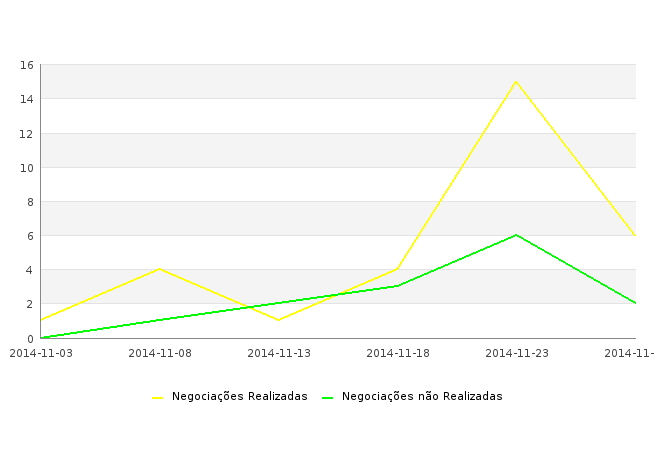
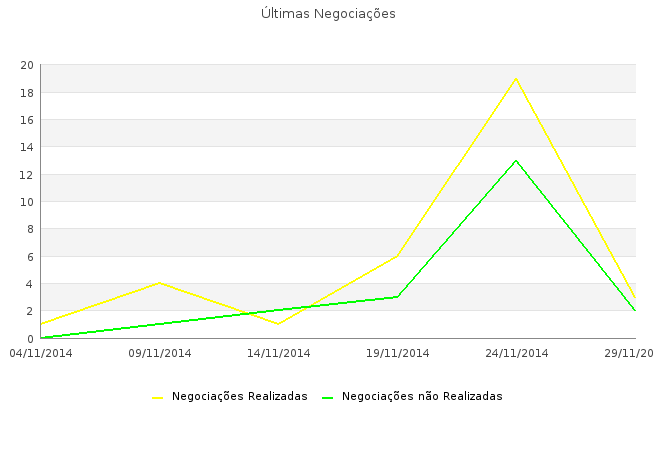
Buscando apenas por nome+incrementos em relatórios

diff --git a/PainelAdmim/app/webroot/css/bootstrap.min.css b/PainelAdmim/app/webroot/css/bootstrap.min.css
@@ -54,12 +54,12 @@
 }
 
 .GCUXF0KCDCB  a {
-	font-size: 12px;
+	font-size: 14px;
 	font-weight: normal;
 	color: #15c;
 	position: absolute;
 	right: 0;
-	line-height: 20px;
+	line-height: 37px;
 }
 
 .blogg-title {

diff --git a/PainelAdmim/app/Controller/GerenciamentosController.php b/PainelAdmim/app/Controller/GerenciamentosController.php
@@ -44,12 +44,9 @@ class GerenciamentosController extends AppController {
 		$this->set('resultados', $resultado);
 	}
 
-		public function visao_geral() {
+	public function visao_geral() {
 		App::import('Vendor', 'jpgraph/jpgraph');
     	App::import('Vendor', 'jpgraph/jpgraph_line');
-
-    	$busca = "SELECT * FROM `negociacaos` where `negociacaos`.`status` = 1 ORDER BY `data_final` DESC";
-    	$resultado = $this->requestAction('/negociacaos/search/'.$busca);
 
 		$data[0] = date('d/m/Y', strtotime("-25 days"));
 		$data[1] = date('d/m/Y', strtotime("-20 days"));
@@ -58,49 +55,50 @@ class GerenciamentosController extends AppController {
 		$data[4] = date('d/m/Y', strtotime("-5 days"));
 		$data[5] = date('d/m/Y');
 
-		$data[0] = implode("-",array_reverse(explode("/",$data[0])));
-		$data[1] = implode("-",array_reverse(explode("/",$data[1])));
-		$data[2] = implode("-",array_reverse(explode("/",$data[2])));
-		$data[3] = implode("-",array_reverse(explode("/",$data[3])));
-		$data[4] = implode("-",array_reverse(explode("/",$data[4])));
-		$data[5] = implode("-",array_reverse(explode("/",$data[5])));
+		$data2[0] = implode("-",array_reverse(explode("/",$data[0])));
 
-	    $qtd = "SELECT COUNT(*) FROM `negociacaos` WHERE `negociacaos`.`data_final` >= '".$data[0]."' AND `negociacaos`.`data_final` < '".$data[1]."' AND `negociacaos`.`status` = 1;";
-	    $valores = $this->requestAction('/negociacaos/search/'.$qtd);
-	    $qtd = "SELECT COUNT(*) FROM `negociacaos` WHERE `negociacaos`.`data_final` >= '".$data[1]."' AND `negociacaos`.`data_final` < '".$data[2]."' AND `negociacaos`.`status` = 1;";
+		$data2[1] = implode("-",array_reverse(explode("/",$data[1])));
+		$data2[2] = implode("-",array_reverse(explode("/",$data[2])));
+		$data2[3] = implode("-",array_reverse(explode("/",$data[3])));
+		$data2[4] = implode("-",array_reverse(explode("/",$data[4])));
+		$data2[5] = implode("-",array_reverse(explode("/",$data[5])));
+
+	    $qtd = "SELECT COUNT(*) FROM `negociacaos` WHERE `negociacaos`.`data_final` >= '".$data2[0]."' AND `negociacaos`.`data_final` < '".$data2[1]."' AND `negociacaos`.`status` = 1;";
+	    $valores[0] = $this->requestAction('/negociacaos/search/'.$qtd);
+	    $qtd = "SELECT COUNT(*) FROM `negociacaos` WHERE `negociacaos`.`data_final` >= '".$data2[1]."' AND `negociacaos`.`data_final` < '".$data2[2]."' AND `negociacaos`.`status` = 1;";
 	    $valores[1] = $this->requestAction('/negociacaos/search/'.$qtd);
-	    $qtd = "SELECT COUNT(*) FROM `negociacaos` WHERE `negociacaos`.`data_final` >= '".$data[2]."' AND `negociacaos`.`data_final` < '".$data[3]."' AND `negociacaos`.`status` = 1;";
+	    $qtd = "SELECT COUNT(*) FROM `negociacaos` WHERE `negociacaos`.`data_final` >= '".$data2[2]."' AND `negociacaos`.`data_final` < '".$data2[3]."' AND `negociacaos`.`status` = 1;";
 	    $valores[2] = $this->requestAction('/negociacaos/search/'.$qtd);
-		$qtd = "SELECT COUNT(*) FROM `negociacaos` WHERE `negociacaos`.`data_final` >= '".$data[3]."' AND `negociacaos`.`data_final` < '".$data[4]."' AND `negociacaos`.`status` = 1;";
+		$qtd = "SELECT COUNT(*) FROM `negociacaos` WHERE `negociacaos`.`data_final` >= '".$data2[3]."' AND `negociacaos`.`data_final` < '".$data2[4]."' AND `negociacaos`.`status` = 1;";
 		$valores[3] = $this->requestAction('/negociacaos/search/'.$qtd);
-		$qtd = "SELECT COUNT(*) FROM `negociacaos` WHERE `negociacaos`.`data_final` >= '".$data[4]."' AND `negociacaos`.`data_final` < '".$data[5]."' AND `negociacaos`.`status` = 1;";
+		$qtd = "SELECT COUNT(*) FROM `negociacaos` WHERE `negociacaos`.`data_final` >= '".$data2[4]."' AND `negociacaos`.`data_final` < '".$data2[5]."' AND `negociacaos`.`status` = 1;";
 		$valores[4] = $this->requestAction('/negociacaos/search/'.$qtd);
-		$qtd = "SELECT COUNT(*) FROM `negociacaos` WHERE `negociacaos`.`data_final` = '".$data[5]."' AND `negociacaos`.`status` = 1;";
+		$qtd = "SELECT COUNT(*) FROM `negociacaos` WHERE `negociacaos`.`data_final` = '".$data2[5]."' AND `negociacaos`.`status` = 1;";
 		$valores[5] = $this->requestAction('/negociacaos/search/'.$qtd);
 
-		$qtd = "SELECT COUNT(*) FROM `negociacaos` WHERE `negociacaos`.`data_final` >= '".$data[0]."' AND `negociacaos`.`data_final` < '".$data[1]."' AND `negociacaos`.`status` = 0;";
+		$qtd = "SELECT COUNT(*) FROM `negociacaos` WHERE `negociacaos`.`data_final` >= '".$data2[0]."' AND `negociacaos`.`data_final` < '".$data2[1]."' AND `negociacaos`.`status` = 0;";
 	    $valores2 = $this->requestAction('/negociacaos/search/'.$qtd);
-	    $qtd = "SELECT COUNT(*) FROM `negociacaos` WHERE `negociacaos`.`data_final` >= '".$data[1]."' AND `negociacaos`.`data_final` < '".$data[2]."' AND `negociacaos`.`status` = 0;";
+	    $qtd = "SELECT COUNT(*) FROM `negociacaos` WHERE `negociacaos`.`data_final` >= '".$data2[1]."' AND `negociacaos`.`data_final` < '".$data2[2]."' AND `negociacaos`.`status` = 0";
 	    $valores2[1] = $this->requestAction('/negociacaos/search/'.$qtd);
-	    $qtd = "SELECT COUNT(*) FROM `negociacaos` WHERE `negociacaos`.`data_final` >= '".$data[2]."' AND `negociacaos`.`data_final` < '".$data[3]."' AND `negociacaos`.`status` = 0;";
+	    $qtd = "SELECT COUNT(*) FROM `negociacaos` WHERE `negociacaos`.`data_final` >= '".$data2[2]."' AND `negociacaos`.`data_final` < '".$data2[3]."' AND `negociacaos`.`status` = 0;";
 	    $valores2[2] = $this->requestAction('/negociacaos/search/'.$qtd);
-		$qtd = "SELECT COUNT(*) FROM `negociacaos` WHERE `negociacaos`.`data_final` >= '".$data[3]."' AND `negociacaos`.`data_final` < '".$data[4]."' AND `negociacaos`.`status` = 0;";
+		$qtd = "SELECT COUNT(*) FROM `negociacaos` WHERE `negociacaos`.`data_final` >= '".$data2[3]."' AND `negociacaos`.`data_final` < '".$data2[4]."' AND `negociacaos`.`status` = 0;";
 		$valores2[3] = $this->requestAction('/negociacaos/search/'.$qtd);
-		$qtd = "SELECT COUNT(*) FROM `negociacaos` WHERE `negociacaos`.`data_final` >= '".$data[4]."' AND `negociacaos`.`data_final` < '".$data[5]."' AND `negociacaos`.`status` = 0;";
+		$qtd = "SELECT COUNT(*) FROM `negociacaos` WHERE `negociacaos`.`data_final` >= '".$data2[4]."' AND `negociacaos`.`data_final` < '".$data2[5]."' AND `negociacaos`.`status` = 0;";
 		$valores2[4] = $this->requestAction('/negociacaos/search/'.$qtd);
-		$qtd = "SELECT COUNT(*) FROM `negociacaos` WHERE `negociacaos`.`data_final` = '".$data[5]."' AND `negociacaos`.`status` = 0;";
+		$qtd = "SELECT COUNT(*) FROM `negociacaos` WHERE `negociacaos`.`data_final` = '".$data2[5]."' AND `negociacaos`.`status` = 0;";
 		$valores2[5] = $this->requestAction('/negociacaos/search/'.$qtd);
 		
-	    $ydata = array($valores[0][0]['COUNT(*)'], $valores[1][0][0]['COUNT(*)'] , $valores[2][0][0]['COUNT(*)'] ,
+	    $ydata = array($valores[0][0][0]['COUNT(*)'], $valores[1][0][0]['COUNT(*)'] , $valores[2][0][0]['COUNT(*)'] ,
 	    				 $valores[3][0][0]['COUNT(*)'] , $valores[4][0][0]['COUNT(*)'] , $valores[5][0][0]['COUNT(*)']);
-	    //debug($ydata) or die();
+	    //debug($valores) or die();
 	    $ydatas = array($valores2[0][0]['COUNT(*)'], $valores2[1][0][0]['COUNT(*)'] , $valores2[2][0][0]['COUNT(*)'] ,
 	    				 $valores2[3][0][0]['COUNT(*)'] , $valores2[4][0][0]['COUNT(*)'] , $valores2[5][0][0]['COUNT(*)']);
 	    // Create the graph. These two calls are always required
 	    $graph = new Graph(655,450);
 	    $graph->SetScale('textlin');
 
-	    $graph->xaxis->SetTickLabels($data);
+	    $graph->xaxis->SetTickLabels(array($data[0], $data[1], $data[2], $data[3], $data[4], $data[5]));
 
 	    // Create the linear plot
 	    $lineplot=new LinePlot($ydata);
@@ -116,6 +114,7 @@ class GerenciamentosController extends AppController {
 	    $graph->Add($lineplot2);
 	    $lineplot2->SetColor('green');
 	    $lineplot2->SetLegend('Negociações não Realizadas');
+	    $graph->title->Set("Últimas Negociações");
 
 	    // Get the handler to prevent the library from sending the
 	    // image to the browser
@@ -134,9 +133,104 @@ class GerenciamentosController extends AppController {
 
 	public function anuncios(){
 		App::import('Vendor', 'jpgraph/jpgraph');
-    	App::import('Vendor', 'jpgraph/jpgraph_line');
+    	App::import('Vendor', 'jpgraph/jpgraph_bar');
 
-    	
+		$data[0] = date('d/m/Y', strtotime("-25 days"));
+		$data[1] = date('d/m/Y', strtotime("-20 days"));
+		$data[2] = date('d/m/Y', strtotime("-15 days"));
+		$data[3] = date('d/m/Y', strtotime("-10 days"));
+		$data[4] = date('d/m/Y', strtotime("-5 days"));
+		$data[5] = date('d/m/Y');
+
+		$data2[0] = implode("-",array_reverse(explode("/",$data[0])));
+		$data2[1] = implode("-",array_reverse(explode("/",$data[1])));
+		$data2[2] = implode("-",array_reverse(explode("/",$data[2])));
+		$data2[3] = implode("-",array_reverse(explode("/",$data[3])));
+		$data2[4] = implode("-",array_reverse(explode("/",$data[4])));
+		$data2[5] = implode("-",array_reverse(explode("/",$data[5])));
+
+	    $qtd = "SELECT COUNT(*) FROM `produtos` WHERE `produtos`.`Data_Publicacao` >= '".$data2[0]."' AND `produtos`.`Data_Publicacao` < '".$data2[1]."' AND `produtos`.`Expirado` = 0;";
+	    $valores = $this->requestAction('/produtos/buscaProdutos/'.$qtd);
+	    $qtd = "SELECT COUNT(*) FROM `produtos` WHERE `produtos`.`Data_Publicacao` >= '".$data2[1]."' AND `produtos`.`Data_Publicacao` < '".$data2[2]."' AND `produtos`.`Expirado` = 0;";
+	    $valores[1] = $this->requestAction('/produtos/buscaProdutos/'.$qtd);
+	    $qtd = "SELECT COUNT(*) FROM `produtos` WHERE `produtos`.`Data_Publicacao` >= '".$data2[2]."' AND `produtos`.`Data_Publicacao` < '".$data2[3]."' AND `produtos`.`Expirado` = 0;";
+	    $valores[2] = $this->requestAction('/produtos/buscaProdutos/'.$qtd);
+		$qtd = "SELECT COUNT(*) FROM `produtos` WHERE `produtos`.`Data_Publicacao` >= '".$data2[3]."' AND `produtos`.`Data_Publicacao` < '".$data2[4]."' AND `produtos`.`Expirado` = 0;";
+		$valores[3] = $this->requestAction('/produtos/buscaProdutos/'.$qtd);
+		$qtd = "SELECT COUNT(*) FROM `produtos` WHERE `produtos`.`Data_Publicacao` >= '".$data2[4]."' AND `produtos`.`Data_Publicacao` < '".$data2[5]."' AND `produtos`.`Expirado` = 0;";
+		$valores[4] = $this->requestAction('/produtos/buscaProdutos/'.$qtd);
+		$qtd = "SELECT COUNT(*) FROM `produtos` WHERE `produtos`.`Data_Publicacao` = '".$data2[5]."' AND `produtos`.`Expirado` = 0;";
+		$valores[5] = $this->requestAction('/produtos/buscaProdutos/'.$qtd);
+
+		$qtd = "SELECT COUNT(*) FROM `servicos` WHERE `servicos`.`Data_Publicacao` >= '".$data2[0]."' AND `servicos`.`Data_Publicacao` < '".$data2[1]."' AND `servicos`.`Expirado` = 0;";
+	    $valores2 = $this->requestAction('/servicos/buscaServicos/'.$qtd);
+	    $qtd = "SELECT COUNT(*) FROM `servicos` WHERE `servicos`.`Data_Publicacao` >= '".$data2[1]."' AND `servicos`.`Data_Publicacao` < '".$data2[2]."' AND `servicos`.`Expirado` = 0;";
+	    $valores2[1] = $this->requestAction('/servicos/buscaServicos/'.$qtd);
+	    $qtd = "SELECT COUNT(*) FROM `servicos` WHERE `servicos`.`Data_Publicacao` >= '".$data2[2]."' AND `servicos`.`Data_Publicacao` < '".$data2[3]."' AND `servicos`.`Expirado` = 0;";
+	    $valores2[2] = $this->requestAction('/servicos/buscaServicos/'.$qtd);
+		$qtd = "SELECT COUNT(*) FROM `servicos` WHERE `servicos`.`Data_Publicacao` >= '".$data2[3]."' AND `servicos`.`Data_Publicacao` < '".$data2[4]."' AND `servicos`.`Expirado` = 0;";
+		$valores2[3] = $this->requestAction('/servicos/buscaServicos/'.$qtd);
+		$qtd = "SELECT COUNT(*) FROM `servicos` WHERE `servicos`.`Data_Publicacao` >= '".$data2[4]."' AND `servicos`.`Data_Publicacao` < '".$data2[5]."' AND `servicos`.`Expirado` = 0;";
+		$valores2[4] = $this->requestAction('/servicos/buscaServicos/'.$qtd);
+		$qtd = "SELECT COUNT(*) FROM `servicos` WHERE `servicos`.`Data_Publicacao` = '".$data2[5]."' AND `servicos`.`Expirado` = 0;";
+		$valores2[5] = $this->requestAction('/servicos/buscaServicos/'.$qtd);
+  
+  	    $data1y = array($valores[0][0]['COUNT(*)'], $valores[1][0][0]['COUNT(*)'] , $valores[2][0][0]['COUNT(*)'] ,
+	    				 $valores[3][0][0]['COUNT(*)'] , $valores[4][0][0]['COUNT(*)'] , $valores[5][0][0]['COUNT(*)']);
+	    
+	    $data2y = array($valores2[0][0]['COUNT(*)'], $valores2[1][0][0]['COUNT(*)'] , $valores2[2][0][0]['COUNT(*)'] ,
+	    				 $valores2[3][0][0]['COUNT(*)'] , $valores2[4][0][0]['COUNT(*)'] , $valores2[5][0][0]['COUNT(*)']);
+
+		//$data1y=array(47,80,40,116, 12, 20, 60);
+		//$data2y=array(61,30,82,105, 12, 90, 130);
+	    $graph = new Graph(655,450);
+	    $graph->SetScale('textlin');
+
+	    //$graph->yaxis->SetTickPositions(array(0,30,60,90,120,150), array(15,45,75,105,135,1));
+		$graph->SetBox(false);
+
+		$graph->ygrid->SetFill(false);
+		$graph->xaxis->SetTickLabels($data);
+		$graph->yaxis->HideLine(false);
+		$graph->yaxis->HideTicks(false,false);
+
+	    // Create the linear plot
+	    $theme_class=new UniversalTheme;
+		$graph->img->SetAntiAliasing(false);
+		$graph->SetBox(false);
+
+	    // Create the bar plots
+		$b1plot = new BarPlot($data1y);
+		$b2plot = new BarPlot($data2y);
+
+		// Create the grouped bar plot
+		$gbplot = new GroupBarPlot(array($b1plot,$b2plot));
+		// ...and add it to the graPH
+		$graph->Add($gbplot);
+
+
+		$b1plot->SetColor("white");
+		$b1plot->SetFillColor("#cc1111");
+		$b1plot->SetLegend('Produtos');
+
+		$b2plot->SetColor("white");
+		$b2plot->SetFillColor("#11cccc");
+		$b2plot->SetLegend('Serviços');
+
+		$graph->title->Set("Últimos Anúncios");
+	    // Get the handler to prevent the library from sending the
+	    // image to the browser
+	    $gdImgHandler = $graph->Stroke(_IMG_HANDLER);
+
+	    // Stroke image to a file
+
+	    // Default is PNG so use ".png" as suffix
+	    $fileName = "img/relatorios/ultimosanuncios.png";
+	    $graph->img->Stream($fileName);
+
+	    // Send it back to browser
+	    //$graph->img->Headers();
+	    //$graph->img->Stream();
 	}
 
 } 

diff --git a/UEFStoreCakePhp/app/Controller/ProdutosController.php b/UEFStoreCakePhp/app/Controller/ProdutosController.php
@@ -161,9 +161,7 @@ class ProdutosController extends AppController {
 	 * @return void
 	 */
 	public function search($termo){
-		$busca = "SELECT * 
-		FROM  `produtos`
-		WHERE `produtos`.`name` LIKE '%".$termo."%' OR `produtos`.`Descricao` LIKE '%".$termo."%'";
+		$busca = "SELECT * FROM  `produtos` WHERE `produtos`.`name` LIKE '%".$termo."%' AND `produtos`.`Bloqueado` = 0 AND `produtos`.`Expirado` = 0";
 //debug($busca) or die();
 		if ($termo = NULL) {
 			throw new NotFoundException(__('Invalid busca'));

diff --git a/UEFStoreCakePhp/app/Controller/ServicosController.php b/UEFStoreCakePhp/app/Controller/ServicosController.php
@@ -155,7 +155,7 @@ class ServicosController extends AppController {
 	public function search($termo) {
 		$busca = "SELECT * 
 		FROM  `servicos`
-		WHERE `servicos`.`name` LIKE '%".$termo."%' OR `servicos`.`Descricao` LIKE '%".$termo."%'";
+		WHERE `servicos`.`name` LIKE '%".$termo."%' AND `servicos`.`Bloqueado` = 0 AND `servicos`.`Expirado` = 0";
 
 		if ($termo = NULL) {
 			throw new NotFoundException(__('Invalid busca'));

diff --git a/PainelAdmim/app/Controller/UsuariosController.php b/PainelAdmim/app/Controller/UsuariosController.php
@@ -117,6 +117,11 @@ class UsuariosController extends AppController {
 	 	$this->set('usuarios', $usuarios);
 	}
 
+	public function buscaUsuarios($comando){
+		$resultado = $this->Usuario->query($comando);
+		return $resultado;
+	}
+
 
 	public function block($id = null)
 	{
